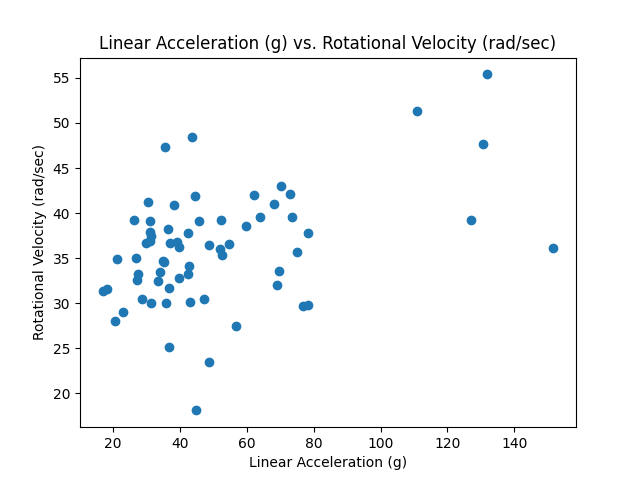
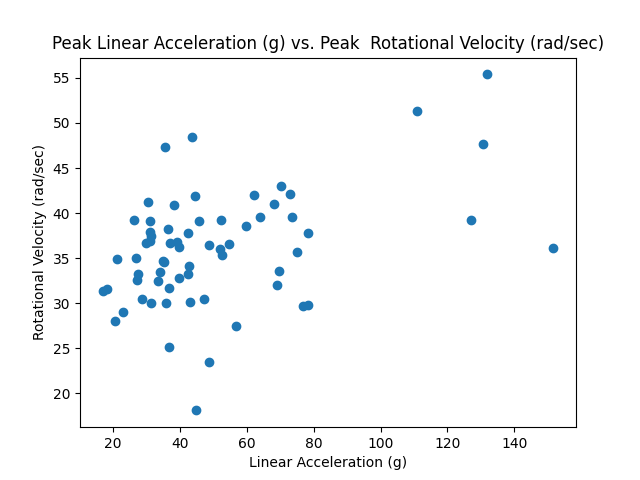
Fixed the labels on some of the graphs.

Changed region(s): [[0.0625, 0.0625, 0.9375, 0.125]]

diff --git a/470exercise2/scavenger_hunt.py b/470exercise2/scavenger_hunt.py
@@ -82,7 +82,7 @@ def plot_scatterplot(PLA, PRV, PRA):
     plt.scatter(PLA, PRV)
     plt.xlabel('Linear Acceleration (g)')
     plt.ylabel('Rotational Velocity (rad/sec)')
-    plt.title('Linear Acceleration (g) vs. Rotational Velocity (rad/sec)')
+    plt.title('Peak Linear Acceleration (g) vs. Peak  Rotational Velocity (rad/sec)')
     plt.savefig('graphs/Linear Acceleration vs. Rotational Velocity.png')
     plt.close()
     print('\ngraphs/Linear Acceleration vs. Rotational Velocity.png printed \n')
@@ -90,7 +90,7 @@ def plot_scatterplot(PLA, PRV, PRA):
     plt.scatter(PLA, PRA)
     plt.xlabel('Linear Acceleration (g)')
     plt.ylabel('Rotational Acceleration (rad/sec^2)')
-    plt.title('Linear Acceleration (g) vs. Rotational Acceleration (rad/sec^2)')
+    plt.title('Peak Linear Acceleration (g) vs. Peak Rotational Acceleration (rad/sec^2)')
     plt.savefig('graphs/Linear Acceleration vs. Rotational Acceleration.png')
     plt.close()
     print('graphs/Linear Acceleration vs. Rotational Acceleration.png printed\n')
@@ -98,7 +98,7 @@ def plot_scatterplot(PLA, PRV, PRA):
     plt.scatter(PRV, PRA)
     plt.xlabel('Rotational Velocity (rad/sec)')
     plt.ylabel('Rotational Acceleration (rad/sec^2)')
-    plt.title('Rotational Velocity (rad/sec) vs. Rotational Acceleration (rad/sec^2)')
+    plt.title('Peak Rotational Velocity (rad/sec) vs. Peak Rotational Acceleration (rad/sec^2)')
     plt.savefig('graphs/Rotational Velocity vs. Rotational Acceleration.png')
     plt.close()
     print('graphs/Rotational Velocity vs. Rotational Acceleration.png printed')
